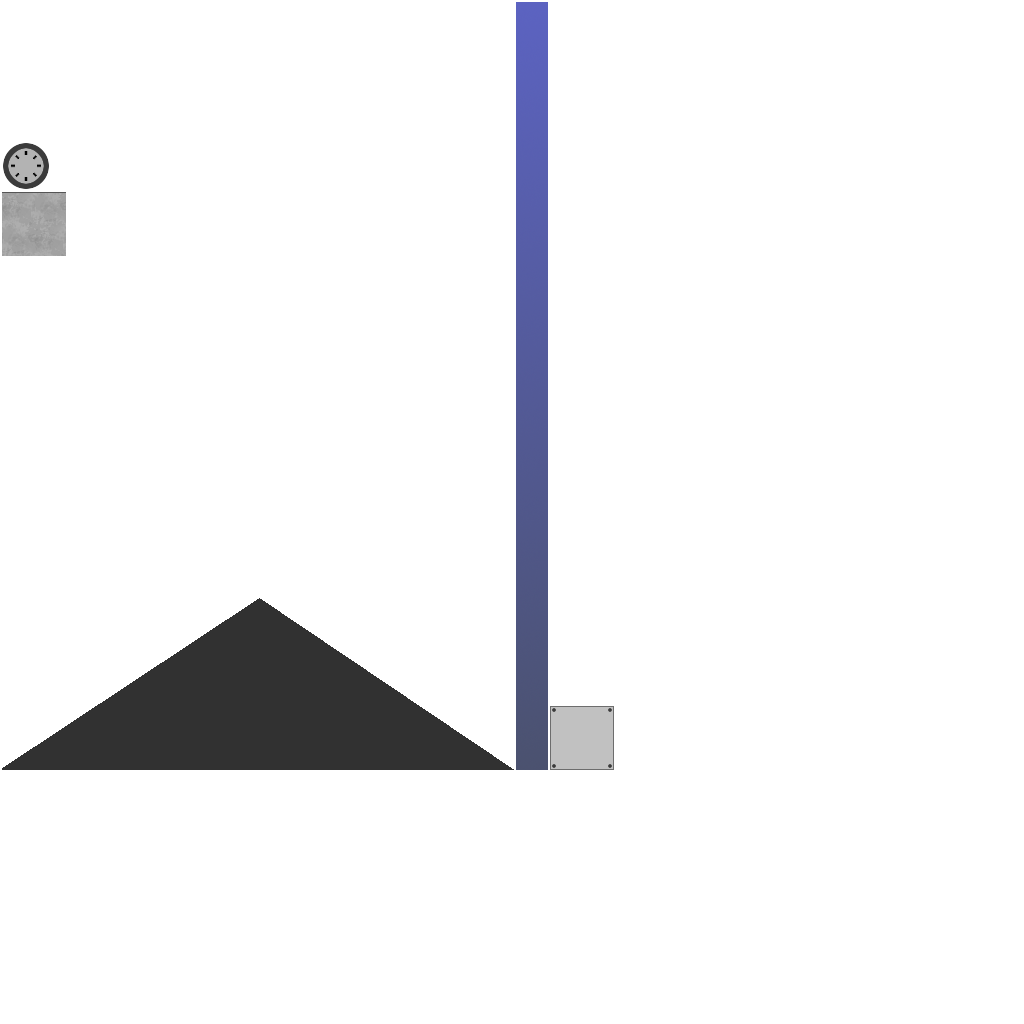
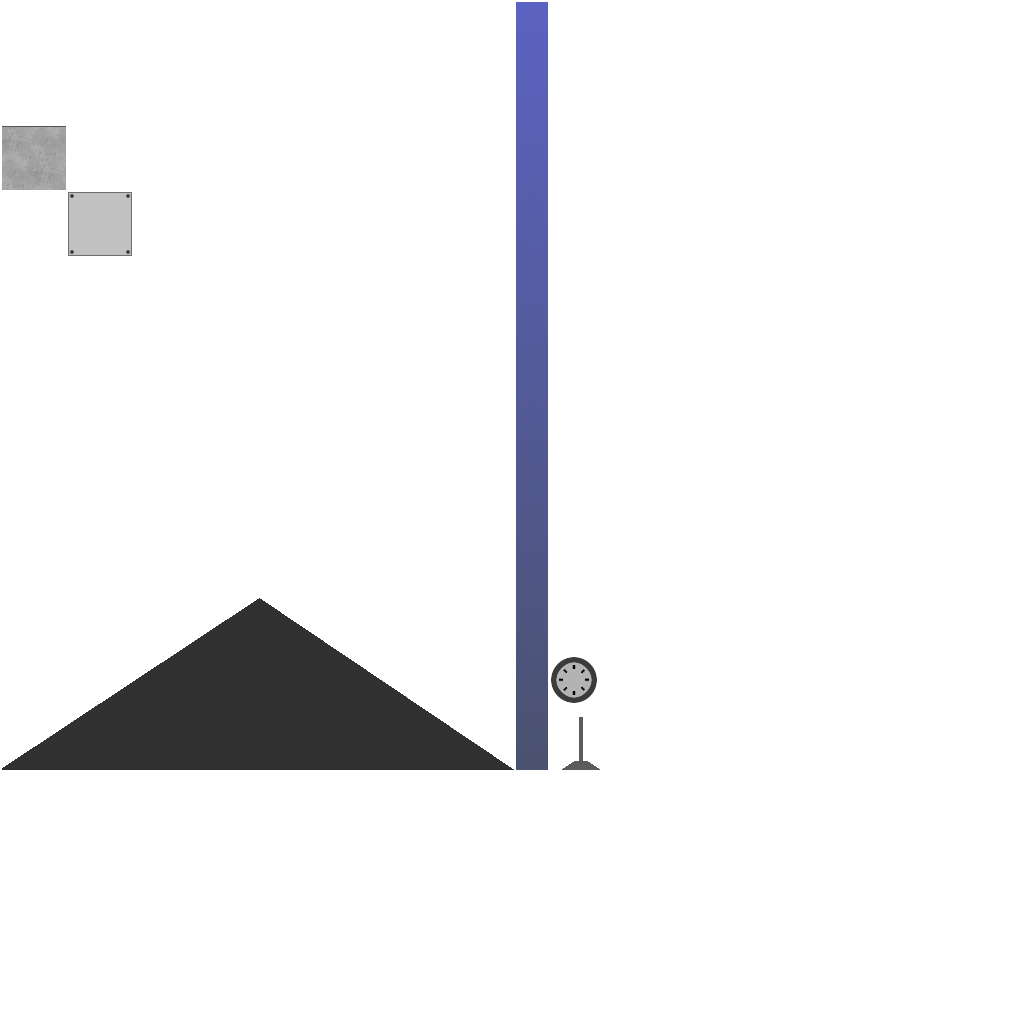
End flags

Changed region(s): [[0.0, 0.125, 0.1562, 0.25], [0.5312, 0.625, 0.625, 0.75]]

diff --git a/core/src/info/quadtree/ld40/GameState.java b/core/src/info/quadtree/ld40/GameState.java
@@ -8,10 +8,7 @@ import com.badlogic.gdx.physics.box2d.Body;
 import com.badlogic.gdx.physics.box2d.BodyDef;
 import com.badlogic.gdx.physics.box2d.PolygonShape;
 import com.badlogic.gdx.physics.box2d.World;
-import info.quadtree.ld40.info.quadtree.ld40.actor.Actor;
-import info.quadtree.ld40.info.quadtree.ld40.actor.Cargo;
-import info.quadtree.ld40.info.quadtree.ld40.actor.Mountain;
-import info.quadtree.ld40.info.quadtree.ld40.actor.PlayerTruck;
+import info.quadtree.ld40.info.quadtree.ld40.actor.*;
 
 import java.util.ArrayList;
 import java.util.List;
@@ -160,5 +157,8 @@ public class GameState {
         addActor(new Mountain(new Vector2(0,0), 0.6f));
         addActor(new Mountain(new Vector2(20,0), 0.95f));
         addActor(new Mountain(new Vector2(45,0), 0.8f));
+
+        addActor(new StartFlag(new Vector2(0,1.5f)));
+        addActor(new EndFlag(new Vector2(150f,1.5f)));
     }
 }

diff --git a/core/src/info/quadtree/ld40/info/quadtree/ld40/actor/Flag.java b/core/src/info/quadtree/ld40/info/quadtree/ld40/actor/Flag.java
@@ -1,0 +1,35 @@
+package info.quadtree.ld40.info.quadtree.ld40.actor;
+
+import com.badlogic.gdx.graphics.Color;
+import com.badlogic.gdx.graphics.g2d.Sprite;
+import com.badlogic.gdx.math.Vector2;
+import info.quadtree.ld40.LD40;
+
+public class Flag extends Actor {
+    Vector2 pos;
+
+    public Flag(Vector2 pos) {
+        this.pos = pos;
+    }
+
+    protected Color getColor(){
+        return Color.WHITE;
+    }
+
+    @Override
+    public void render() {
+        super.render();
+
+        Sprite sp = LD40.s.getSprite("flagpole");
+        sp.setPosition(pos.x, pos.y);
+        sp.setSize(64f / 30f, 64f / 30f);
+        sp.setColor(Color.WHITE);
+        sp.draw(LD40.s.batch);
+
+        sp = LD40.s.getSprite("flag");
+        sp.setPosition(pos.x, pos.y);
+        sp.setSize(64f / 30f, 64f / 30f);
+        sp.setColor(getColor());
+        sp.draw(LD40.s.batch);
+    }
+}

diff --git a/core/src/info/quadtree/ld40/info/quadtree/ld40/actor/StartFlag.java b/core/src/info/quadtree/ld40/info/quadtree/ld40/actor/StartFlag.java
@@ -1,0 +1,15 @@
+package info.quadtree.ld40.info.quadtree.ld40.actor;
+
+import com.badlogic.gdx.graphics.Color;
+import com.badlogic.gdx.math.Vector2;
+
+public class StartFlag extends Flag {
+    public StartFlag(Vector2 pos) {
+        super(pos);
+    }
+
+    @Override
+    protected Color getColor() {
+        return Color.RED;
+    }
+}

diff --git a/core/src/info/quadtree/ld40/info/quadtree/ld40/actor/EndFlag.java b/core/src/info/quadtree/ld40/info/quadtree/ld40/actor/EndFlag.java
@@ -1,0 +1,15 @@
+package info.quadtree.ld40.info.quadtree.ld40.actor;
+
+import com.badlogic.gdx.graphics.Color;
+import com.badlogic.gdx.math.Vector2;
+
+public class EndFlag extends Flag {
+    public EndFlag(Vector2 pos) {
+        super(pos);
+    }
+
+    @Override
+    protected Color getColor() {
+        return Color.GREEN;
+    }
+}
